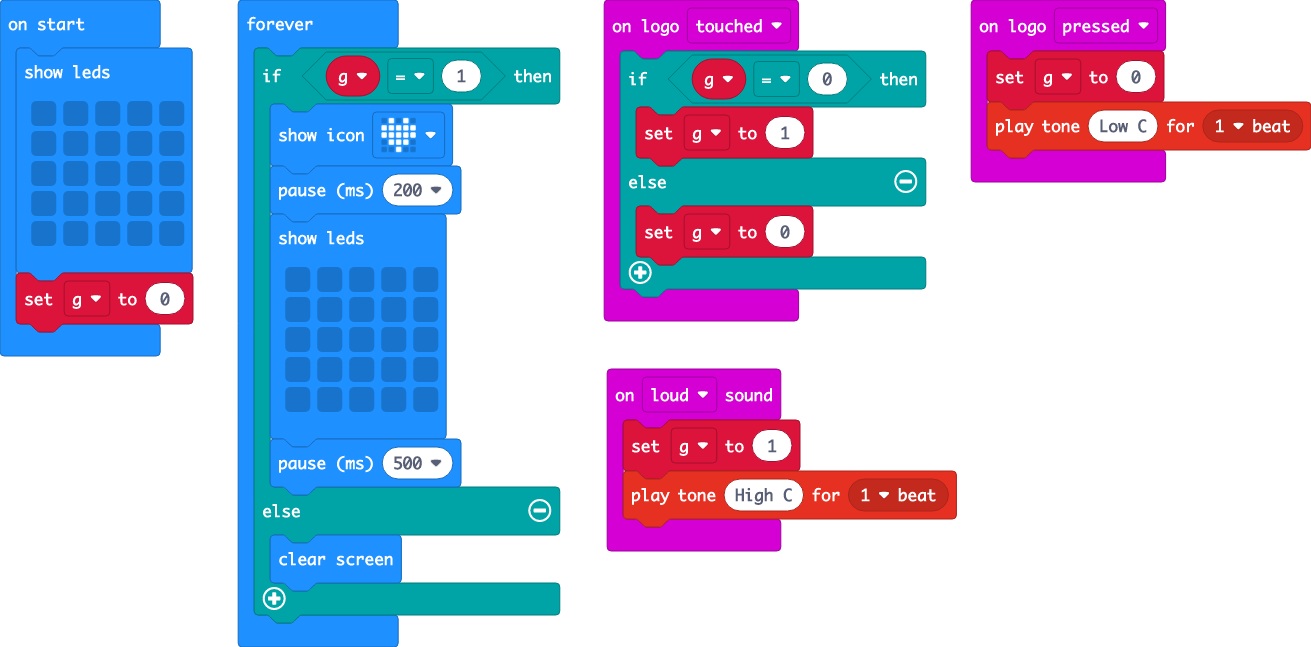
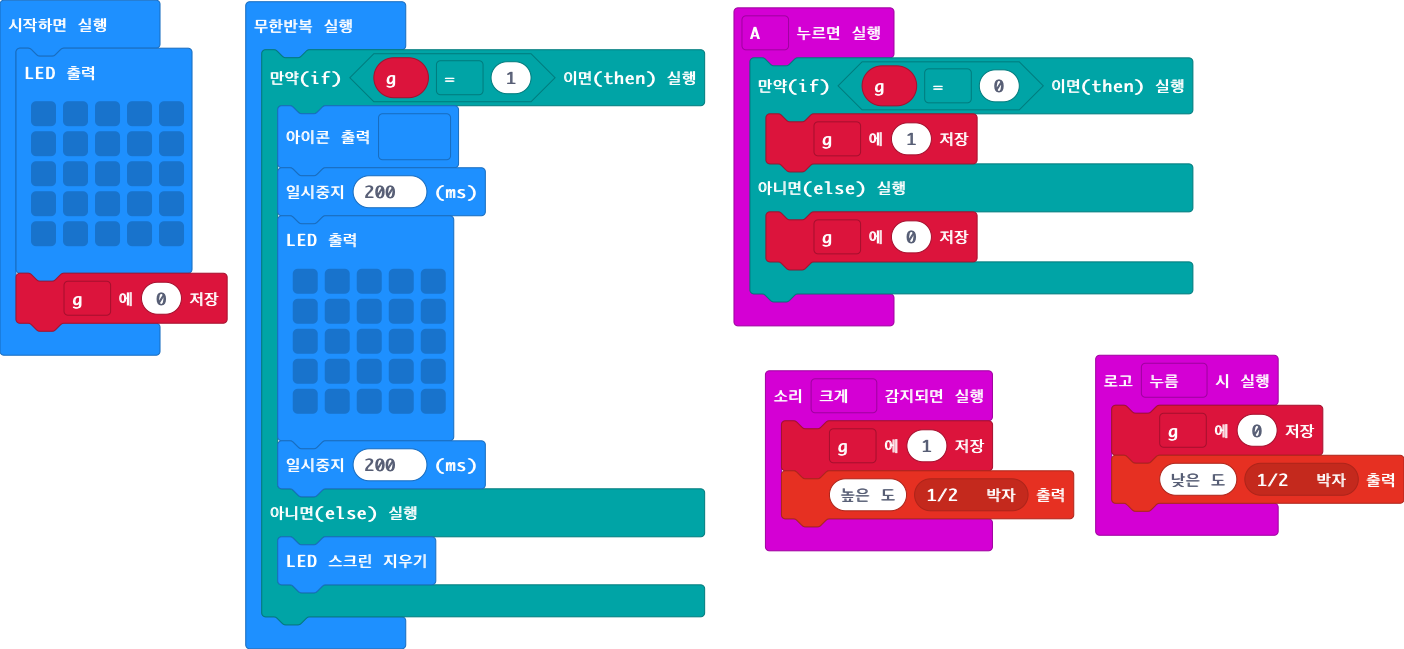
main.blocks, main.ts 업데이트하기

diff --git a/main.ts b/main.ts
@@ -1,17 +1,17 @@
-input.onSound(DetectedSound.Loud, function () {
-    g = 1
-    music.playTone(523, music.beat(BeatFraction.Whole))
+input.onLogoEvent(TouchButtonEvent.Pressed, function () {
+    g = 0
+    music.playTone(131, music.beat(BeatFraction.Half))
 })
-input.onLogoEvent(TouchButtonEvent.Touched, function () {
+input.onButtonPressed(Button.A, function () {
     if (g == 0) {
         g = 1
     } else {
         g = 0
     }
 })
-input.onLogoEvent(TouchButtonEvent.Pressed, function () {
-    g = 0
-    music.playTone(131, music.beat(BeatFraction.Whole))
+input.onSound(DetectedSound.Loud, function () {
+    g = 1
+    music.playTone(523, music.beat(BeatFraction.Half))
 })
 let g = 0
 basic.showLeds(`
@@ -33,7 +33,7 @@ basic.forever(function () {
             . . . . .
             . . . . .
             `)
-        basic.pause(500)
+        basic.pause(200)
     } else {
         basic.clearScreen()
     }
